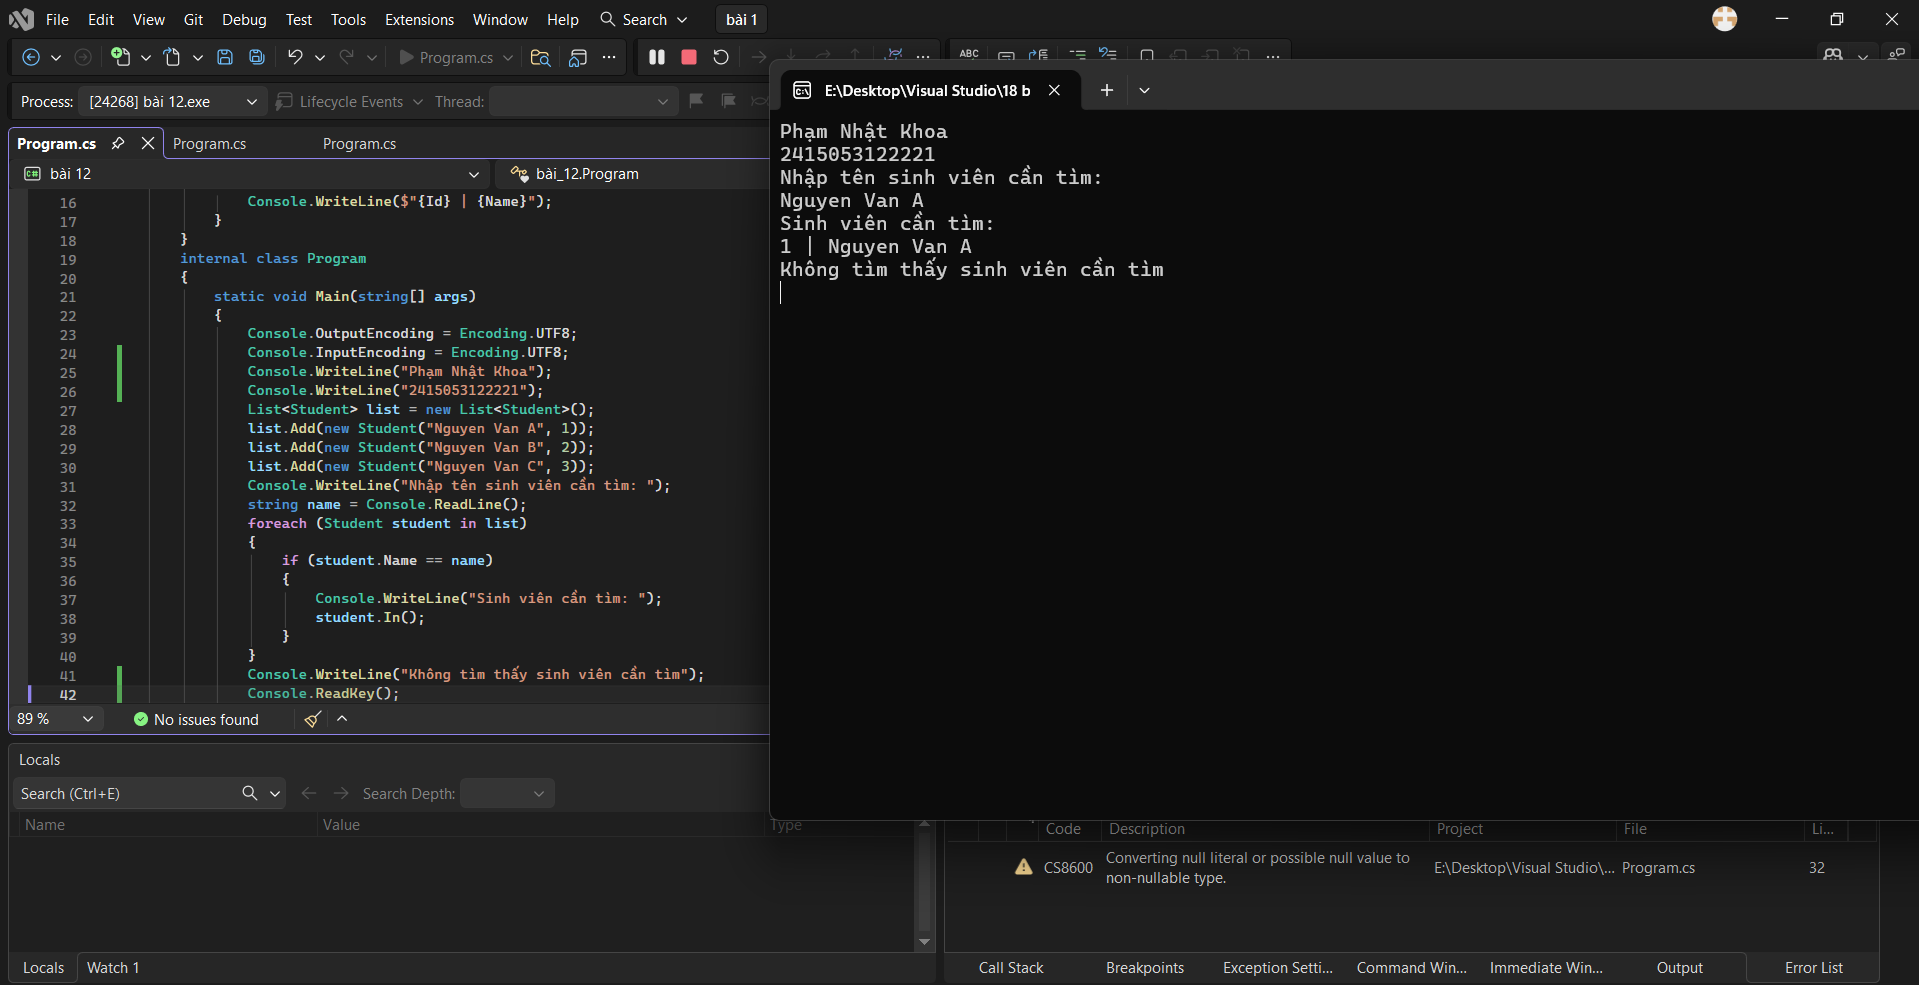
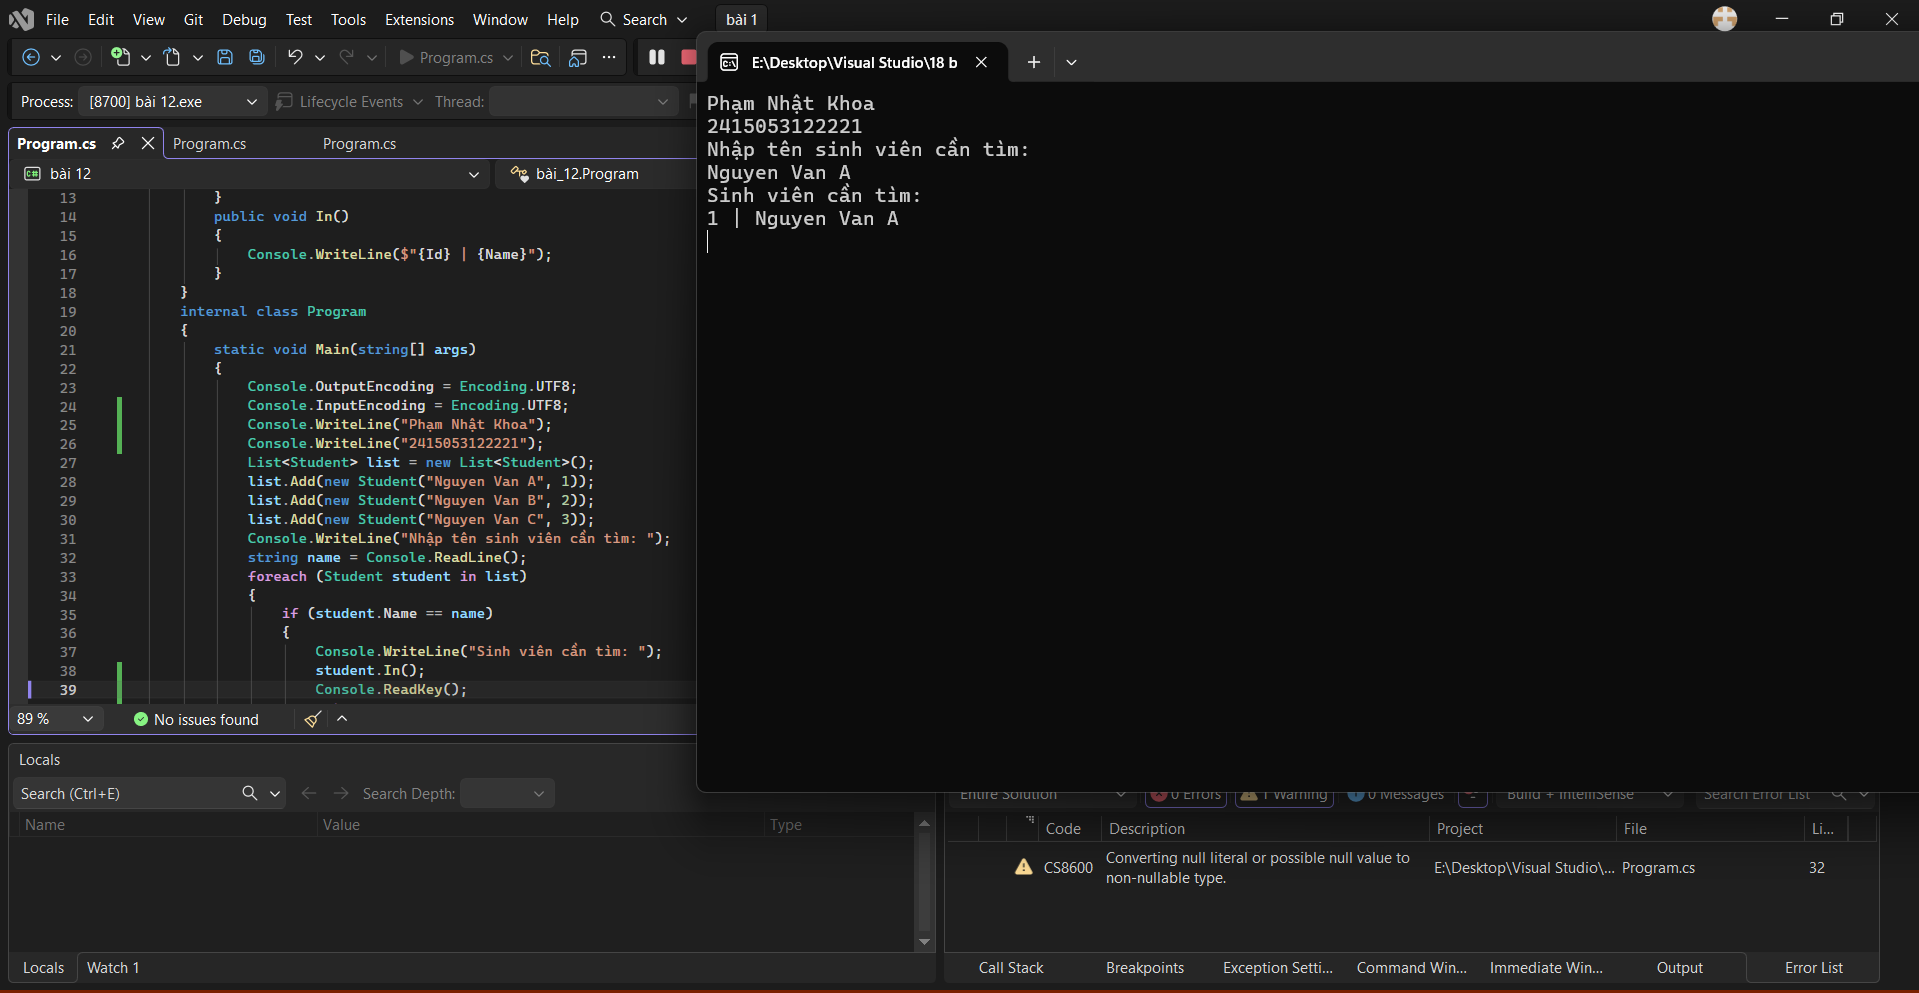
Sửa lại code

diff --git a/bài 12/Program.cs b/bài 12/Program.cs
@@ -36,6 +36,8 @@ namespace bài_12
                 {
                     Console.WriteLine("Sinh viên cần tìm: ");
                     student.In();
+                    Console.ReadKey();
+                    return;
                 }
             }
             Console.WriteLine("Không tìm thấy sinh viên cần tìm");
